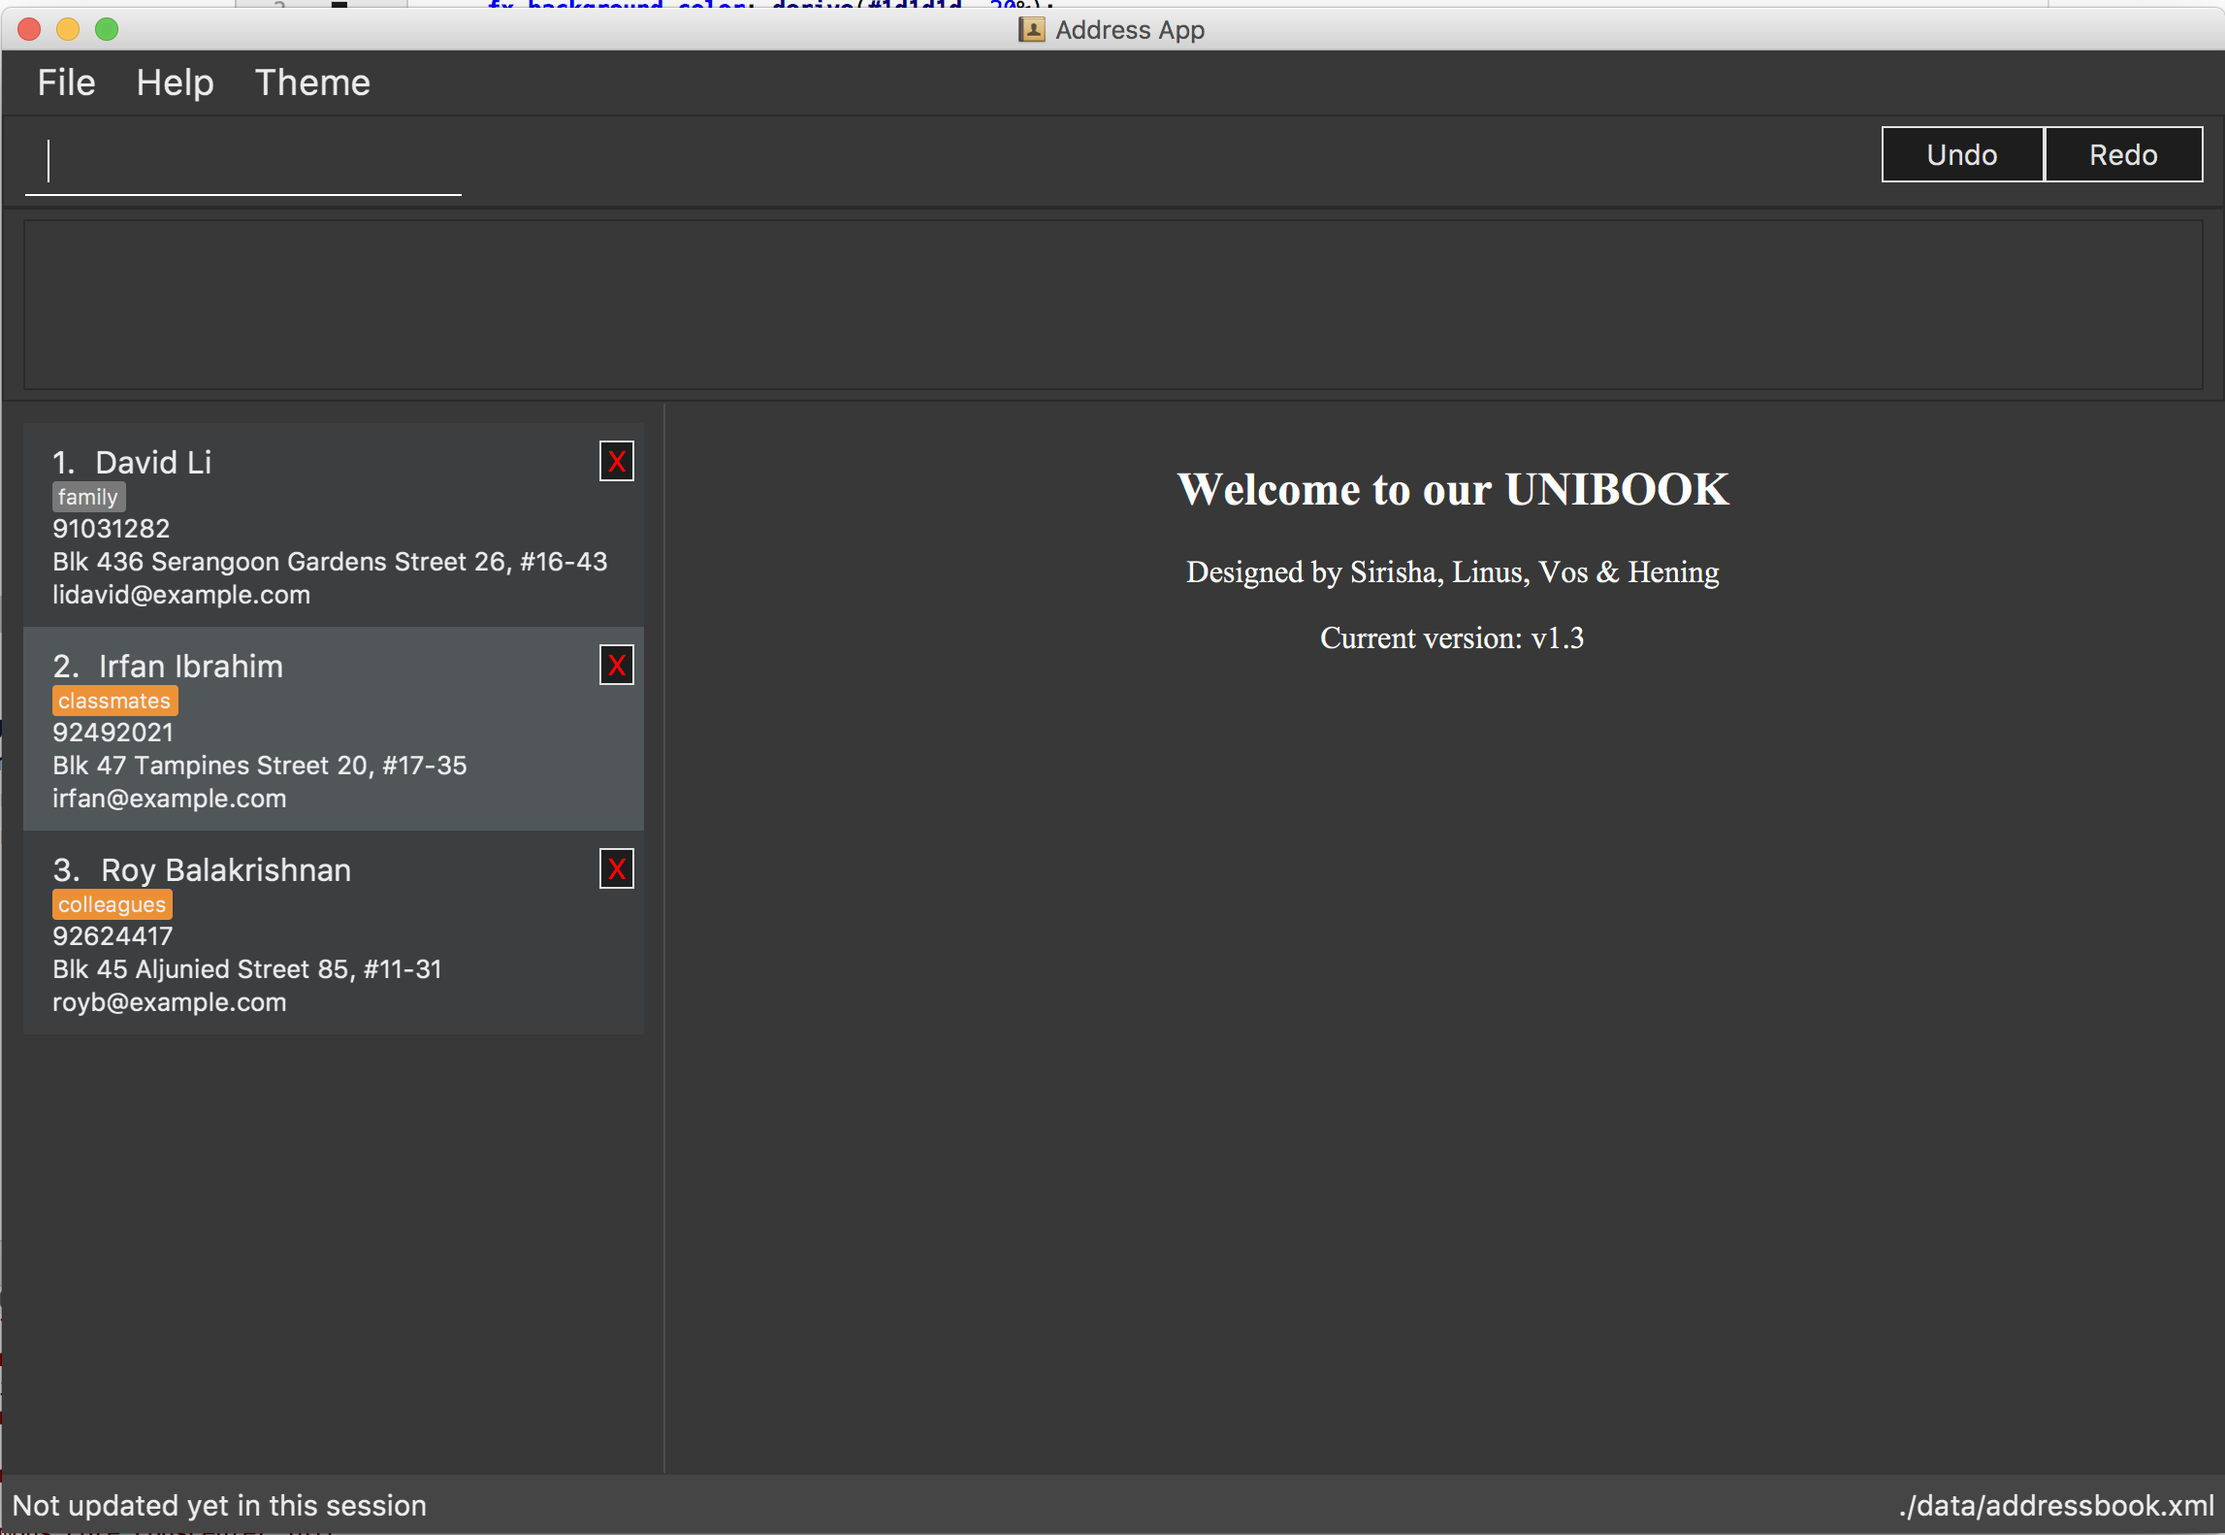
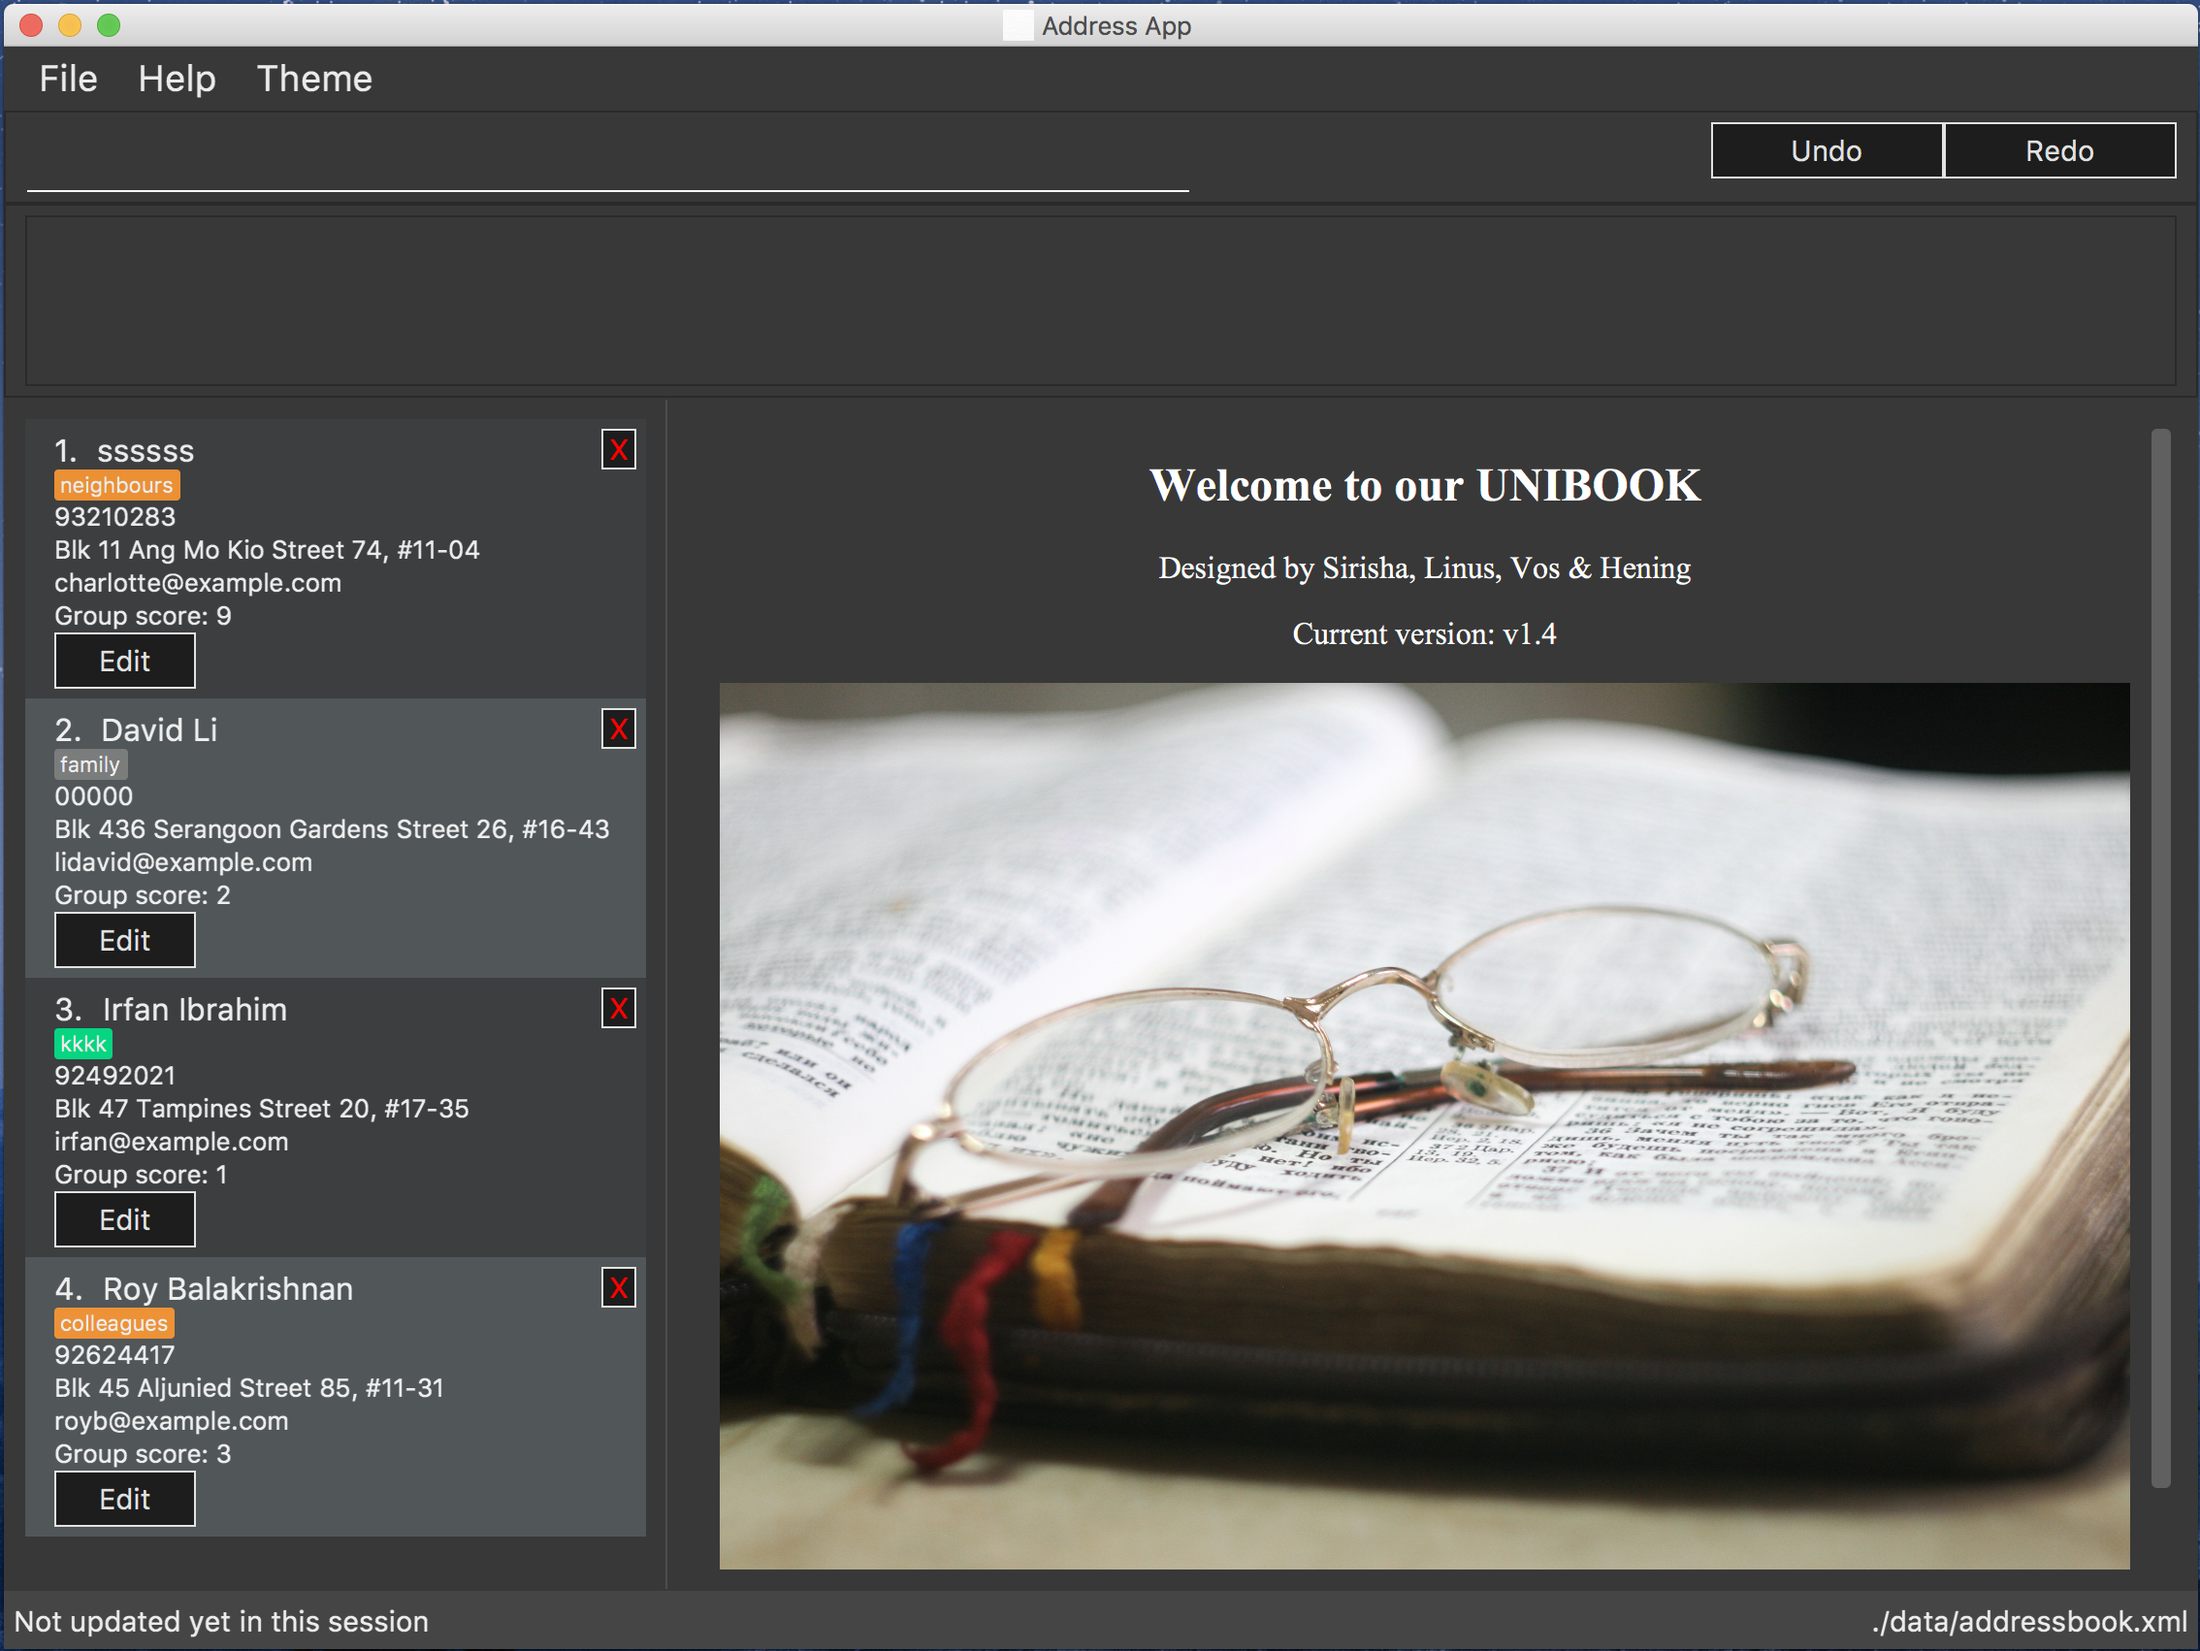
Created branch v1.4 and updated project screenshot

diff --git a/src/main/resources/view/default.html b/src/main/resources/view/default.html
@@ -9,7 +9,7 @@
     <div class="new">
         <h2>Welcome to our UNIBOOK</h2>
         <p>Designed by Sirisha, Linus, Vos & Hening</p>
-        <p>Current version: v1.3</p>
+        <p>Current version: v1.4</p>
         <img src="../images/bg.jpeg" style="width: 100%">
     </div>
 
